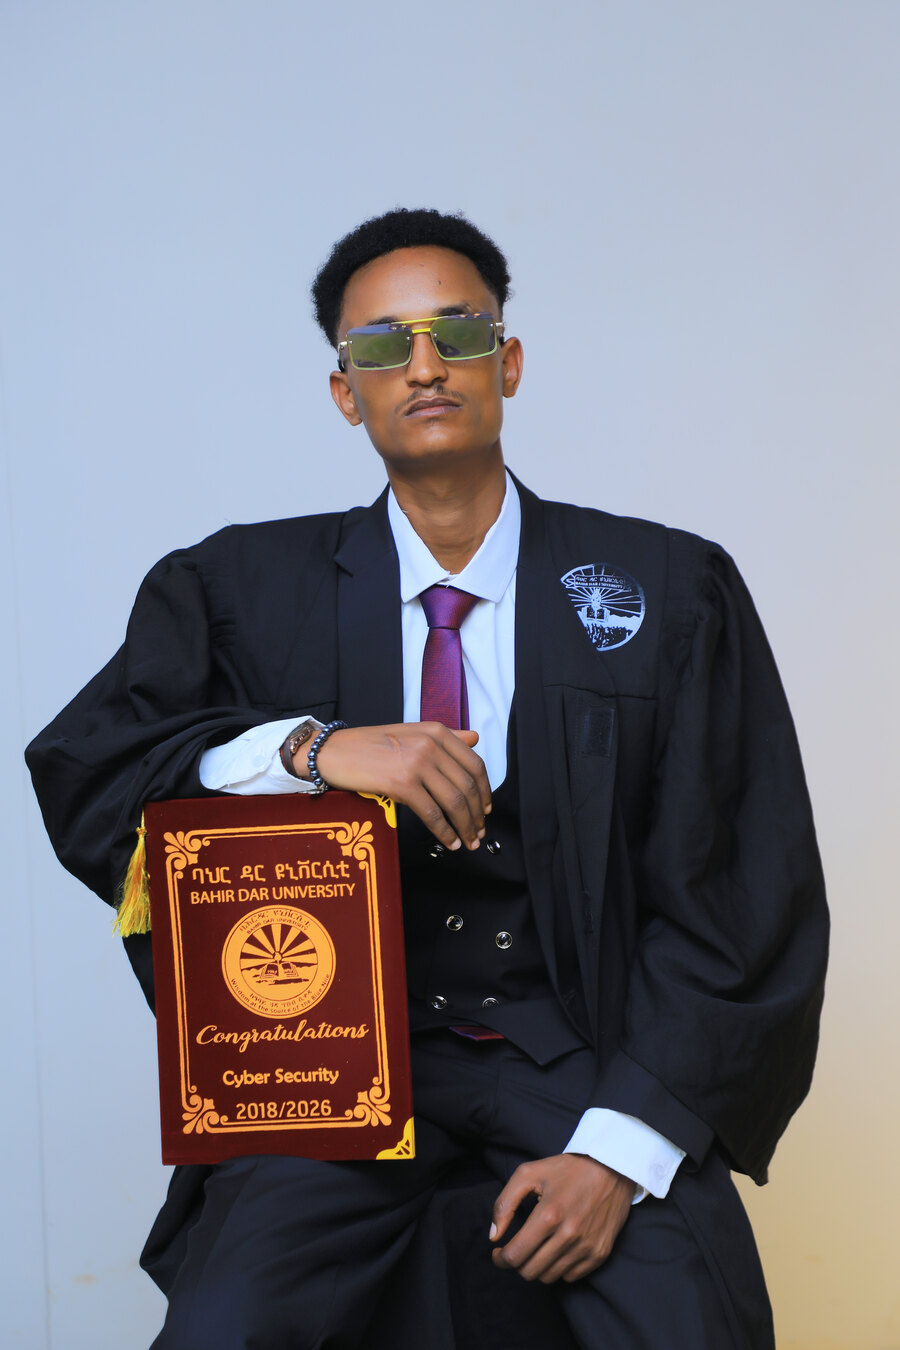
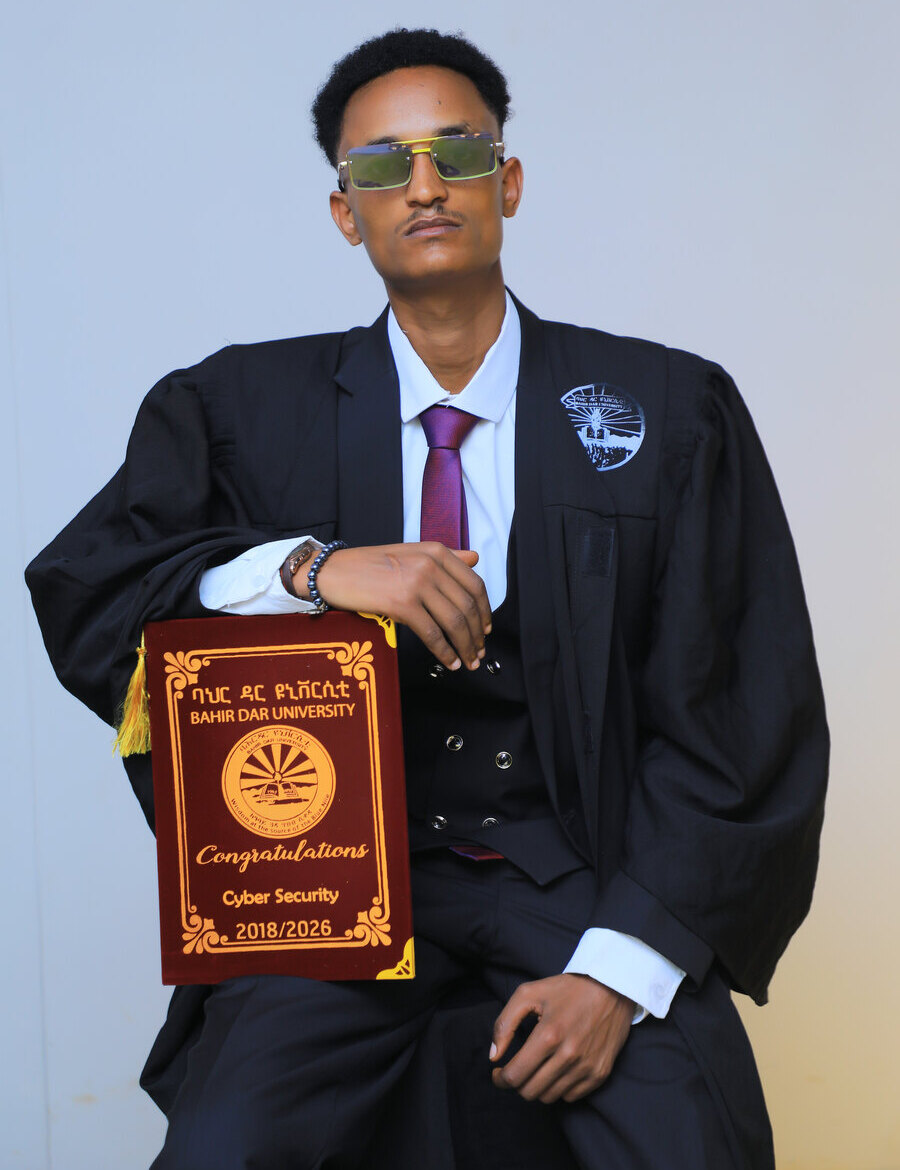
Refine graduation photo framing

diff --git a/style.css b/style.css
@@ -150,7 +150,7 @@ nav .container { display: flex; justify-content: space-between; align-items: cen
 .about-grid { display: grid; grid-template-columns: 350px 1fr; gap: 3rem; }
 .about-profile { position: sticky; top: 100px; align-self: start; }
 
-.profile-photo { width: 100%; aspect-ratio: 2 / 3; position: relative; border-radius: var(--radius-lg); border: 3px solid var(--primary); box-shadow: 0 12px 30px rgba(37,99,235,0.28); margin: 0 0 1.5rem; background: var(--dark); overflow: hidden; }
+.profile-photo { width: 100%; aspect-ratio: 10 / 13; position: relative; border-radius: var(--radius-lg); border: 3px solid var(--primary); box-shadow: 0 12px 30px rgba(37,99,235,0.28); margin: 0 0 1.5rem; background: var(--dark); overflow: hidden; }
 .profile-photo::after { content: ''; position: absolute; inset: 45% 0 0; background: linear-gradient(to top, rgba(13,27,42,0.88), transparent); pointer-events: none; }
 .profile-photo img { display: block; width: 100%; height: 100%; object-fit: cover; object-position: center top; transition: transform 0.5s ease; }
 .profile-photo:hover img { transform: scale(1.04); }
